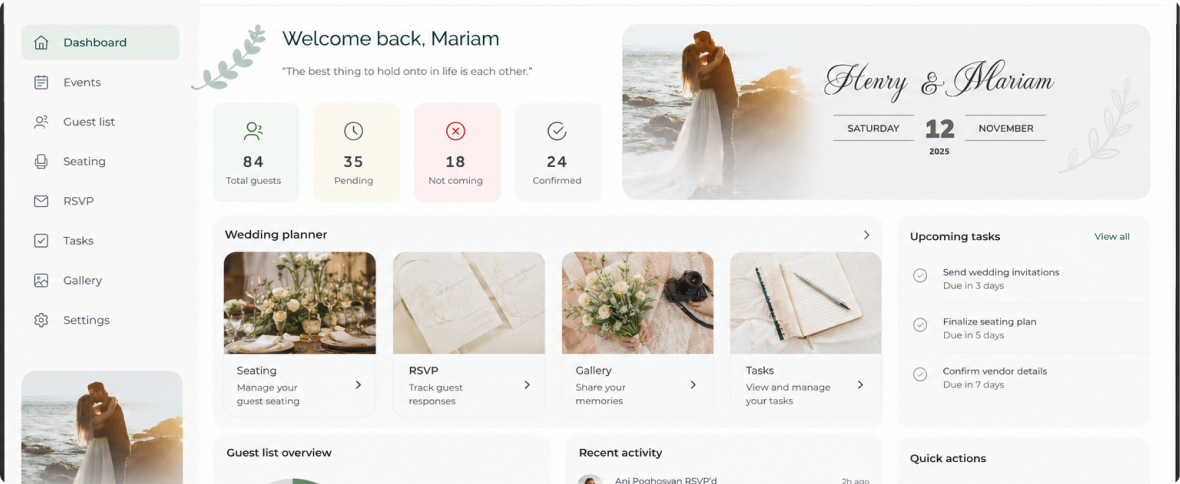
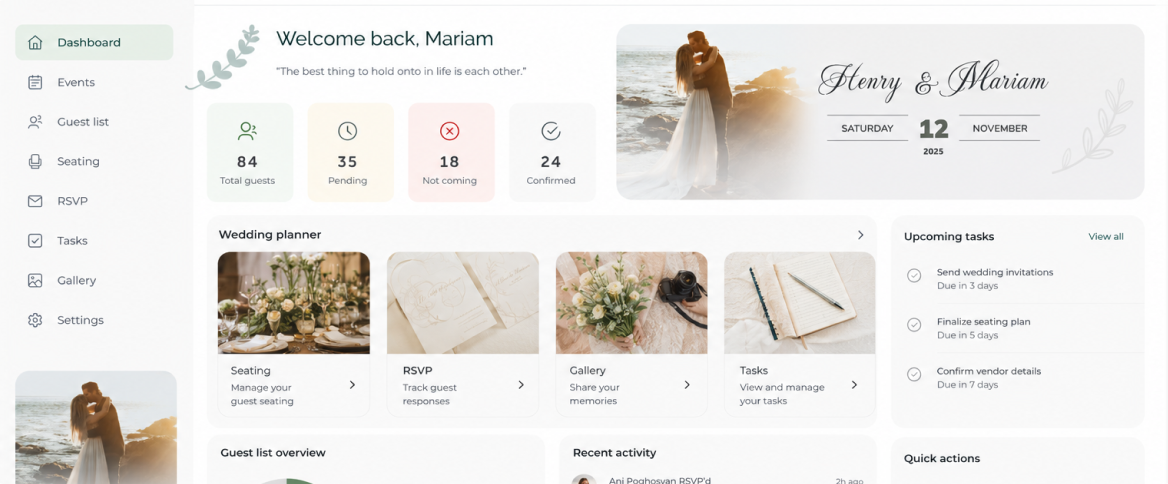
style: templates isSelected

diff --git a/src/components/build/card.jsx b/src/components/build/card.jsx
@@ -60,8 +60,6 @@ export const Card = ({ el }) => {
       // minH="602px"
       w={"100%"}
       minH={{ base: "500px", md: "602px" }}
-      // border={"1px solid"}
-      // borderColor={isSelected ? "#004143" : "transparent"}
       boxShadow={isSelected && "0px 4px 10px 0px rgba(0, 65, 67, 0.1)"}
       borderRadius={"8px"}
       _hover={{
@@ -71,20 +69,19 @@ export const Card = ({ el }) => {
         },
       }}
       _focus={{
-        borderColor: "#004143",
         outline: "none",
       }}
       tabIndex={0}
-      onClick={handleSelect}
       p={{ base: "16px", md: "24px" }}
       transition="box-shadow 0.3s ease"
+      onClick={handleSelect}
     >
       <Box
         w="100%"
         h="100%"
         overflow={"hidden"}
         borderRadius="8px"
-        border={{ base: "0px", md: "24px solid" }}
+        border={{ base: "0px",  md: isSelected ? "20px solid" : "24px solid", }}
         borderColor={{ base: "transparent", md: "#F1F1F1" }}
         background={"#F1F1F1"}
         transition="all 0.3s ease"
@@ -96,6 +93,7 @@ export const Card = ({ el }) => {
           src={templateImage}
           borderRadius="8px"
           transition="transform 0.3s ease"
+          transform={isSelected ? "scale(1.1)" : "scale(1)"}
         />
       </Box>
 
